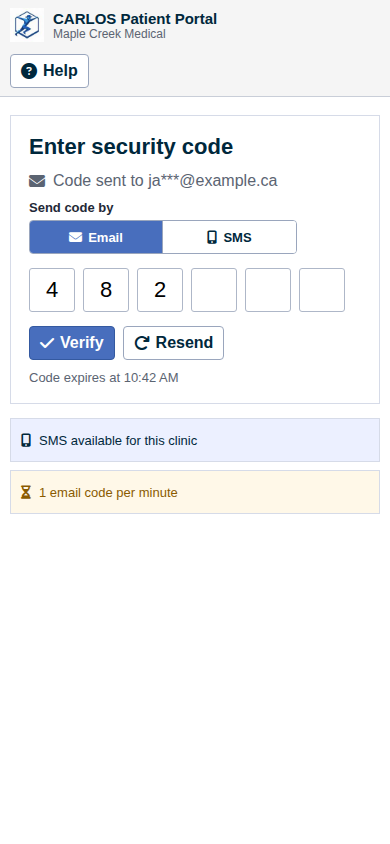
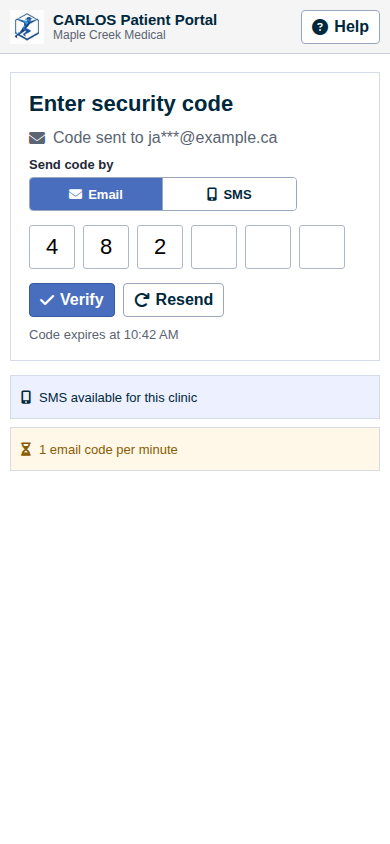
docs: keep MFA help button top right on mobile

diff --git a/patient-portal-mocks/index.html b/patient-portal-mocks/index.html
@@ -56,7 +56,7 @@
       </section>
 
       <section class="portal-screen" id="mfa" aria-label="MFA mock">
-        <header class="patient-topbar compact">
+        <header class="patient-topbar compact mfa-topbar">
           <div class="brand-lockup">
             <img src="../src/main/webapp/images/oscar_logo_small.png" alt="" class="brand-logo">
             <div>

diff --git a/patient-portal-mocks/styles.css b/patient-portal-mocks/styles.css
@@ -868,6 +868,16 @@ h2 {
     flex-direction: column;
   }
 
+  .patient-topbar.mfa-topbar {
+    align-items: center;
+    flex-direction: row;
+    justify-content: space-between;
+  }
+
+  .mfa-topbar .topbar-button {
+    margin-left: auto;
+  }
+
   .patient-nav {
     margin-left: 0;
     width: 100%;
